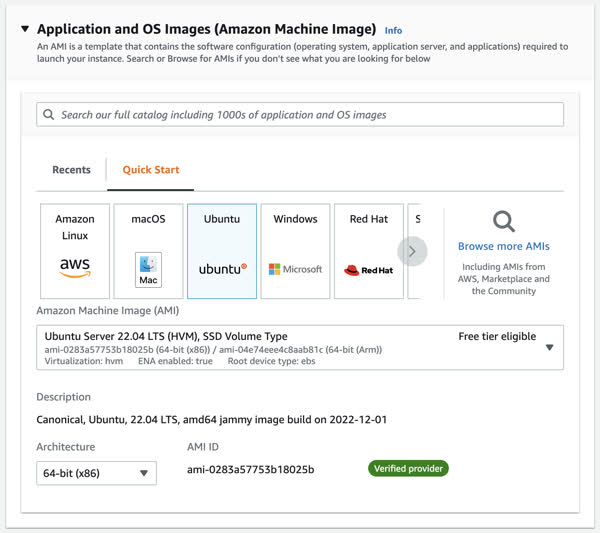
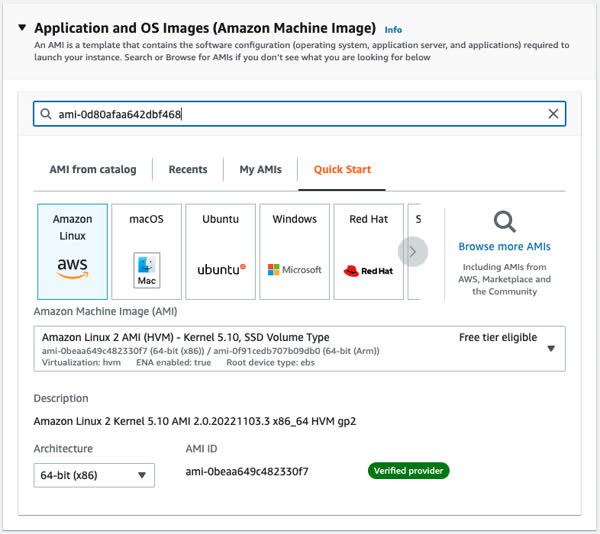
add(webservers) Ec2

diff --git a/profile/webServers/amazonWebServicesEc2/amazonWebServicesEc2.md b/profile/webServers/amazonWebServicesEc2/amazonWebServicesEc2.md
@@ -30,15 +30,18 @@ Once you have an AWS account it is time to create your web server.
 
 ⚠ Note that the AWS interface changes all of the time and so the images given below may not match what you see. However, the concepts they represent should all be there in some shape or form.
 
+1. Open the AWS console in your browser and log in.
 1. Navigate to the EC2 service.
 1. Select the option to `Launch instance`.
 1. Give your instance a meaningful name. Perhaps use a convention such as [owner]-[purpose]-[version].
    ![AWS Instance name](webServerAWSName.jpg)
-1. Select Ubuntu for the operating system. !!TODO!! specify the course AMI to skip Caddy install.
+1. We have created an Amazon Machine Image (AMI) for you to use as the base for your server. It has Ubuntu, Caddy Server, and PM2 built right in so that you do not have to install them. Paste this AMI ID (`ami-0d80afaa642dbf468`) into the search box and press enter.
    ![AWS Instance name](webServerAWSAmi.jpg)
+   This should display the information about the class AMI. If the AMI ID matches, select it.
+   ![AWS class AMI](webServerAWS260Ami.jpg)
 1. Select t3.nano for the instance type. You can always change this later if you need more power.
    ![AWS Instance name](webServerAWSType.jpg)
-1. Create a new key pair. Make sure you save the key pair to your development environment. You will need this every time you secure shell (ssh) into this server (production environment). Note that you don't have to create a new key pair every time you launch an instance. You can use one that you created previously so that all of the servers you create can be accessed with the same key file.
+1. Create a new key pair. Make sure you save the key pair to your development environment. This needs to be safe a place that is not publically accessible and that you won't accidentally commit to a GitHub repo. You will need this every time you secure shell (ssh) into this server (production environment). Note that you don't have to create a new key pair every time you launch an instance. You can use one that you created previously so that all of the servers you create can be accessed with the same key file.
    ![AWS Instance name](webServerAWSkeyPair.jpg)
 1. For your security group allow SSH, HTTP, and HTTPS traffic from anywhere. Make sure auto-assign public IP address is enabled.
 
@@ -46,7 +49,17 @@ Once you have an AWS account it is time to create your web server.
 
 1. Select the option to `Launch instance`.
 
-It will take a few minutes for the instance to start up but once it is marked as `running`. Look at the properties for the instance and note the public IP address. Go to your console window and use SSH to shell into your new web server. You will need to supply the public IP address and the location of your key pair file that you created/used when you launched your instance.
+It will take a few minutes for the instance to start up, but once it is marked as `running` it is good to go. Look at the properties for the instance and note the public IP address.
+
+Open your browser and paste the public IP address for your server in the location bar. You should see the following.
+
+![Web Server](webServerAWSBrowserResult.png)
+
+If that is what you see then congratulations. You are now running your very own web server that the whole world can see! Time to celebrate with cookies.
+
+## SSH into your server
+
+New let's shell into your server and see what is under the hood. Go to your console window and use SSH to shell into the server. You will need to supply the public IP address (copied from the EC2 instance details) and the location of your key pair file that you created/used when you launched your instance. _Hopefully you saved that off to a safe location in your development environment, otherwise you will need to terminate your instance and create a new one, with a new key._
 
 ```sh
 ➜  ssh -i [key pair file] ubuntu@[ip address]
@@ -66,10 +79,42 @@ lrwxrwxrwx 1 ubuntu ubuntu   16 Nov 17 03:42 public_html -> /usr/share/caddy
 drwxrwxr-x 6 ubuntu ubuntu 4096 Nov 30 22:42 services
 ```
 
-The `Caddyfile` is your configuration file for your web service gateway. The `public_html` directory contains all of the static files that your are serving up directly through Caddy when using it as a web service. The `services` directory is the place where you are going to install all of your web services once you build them.
+The `Caddyfile` is your configuration file for your web service gateway. The `public_html` directory contains all of the static files that your are serving up directly through Caddy when using it as a web service. We will cover Caddy configuration in later instruction. The `services` directory is the place where you are going to install all of your web services once you build them.
 
-1. Assign an elastic IP Address so you can shutdown your server without loosing the IP address
+Once you are done poking around on your server you can exit by running the `exit` command. That is everything. You don't need to touch anything on your server. Remember that should always do using an automatic continuous integration process.
 
-## Connecting to the server
+## Keeping the same public IP address
 
-SSH into your server and take a screen shot of the console.
+You can stop your server at any time. Don't confuse this with terminating your server which completely destroys it. Stopping your server just powers down the device. This is nice because you don't have to pay for it while it is stopped. However, every time you stop and start your server you we be assigned a new public IP address. It is important to keep the same public IP address so that you, and other, can always browse to the same place, and more importantly so that when you create your domain name you can assign it to an address that never changes.
+
+You have two choices in order to keep the same public IP address.
+
+1. Never stop your server.
+2. Assign an elastic IP address to your server so that it keeps the same address even if you stop it.
+
+Your first elastic IP address is free. However, the catch is that it is only free while the server instance it is assigned to is running. While your server is not running you are charged $0.005/hr. This is the same cost for running a t3.nano server instance. So you don't save any money unless you start running a more powerful instance, and are stopping your instance when you, or the TAs, don't need it.
+
+We would suggest that do both. Keep your server running and associate an elastic IP. That way if you do need to reboot it for some reason, you will still keep the same IP address and it doesn't cost you anything different either way.
+
+Here is how you assign an elastic IP address to your server instance.
+
+1. Open the AWS console in your browser and log in.
+1. Navigate to the EC2 service.
+1. From the menu on the left select `Network & Security|Elastic IPs`.
+1. Press the `Allocate Elastic IP address` button.
+1. Press the `Allocate` button.
+1. Select the newly displayed allocated address and press the `Actions` button.
+1. Select the `Associate Elastic IP address` option.
+   ![Elastic IP create](webServerAWSElasticIPCreate.jpg)
+1. Click on the `Instance` box and select your server instance.
+1. Press `Associate`.
+
+Note that your elastic IP address is allocated until your release it, not until you terminate your instance. So release it when you no longer need it. Otherwise you will get a nasty $3 bill every month.
+
+Also note that your server IP address has changed to the newly allocated one. This is the one you will use from now on.
+
+## ☑ Assignment
+
+When your server is running and the default class web page is accessible from a browser, submit your web servers public IP address, along with a description of something you found interesting, to the Canvas assignment.
+
+Don't forget to update your GitHub startup repository README.md with all of the things you learned and want to remember.
